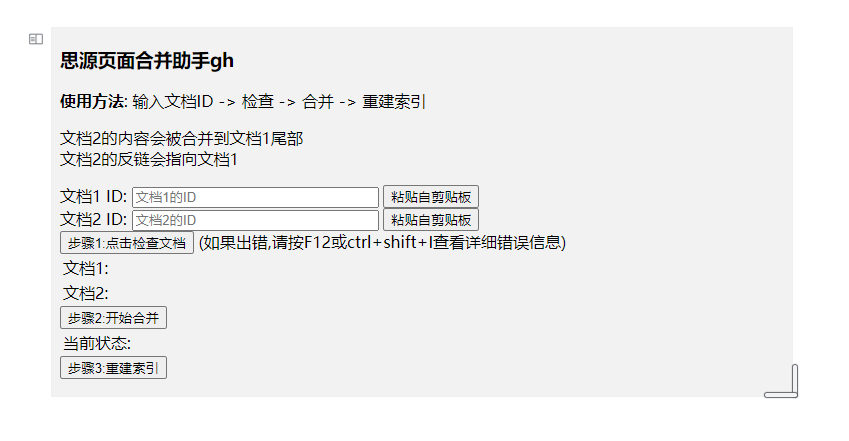
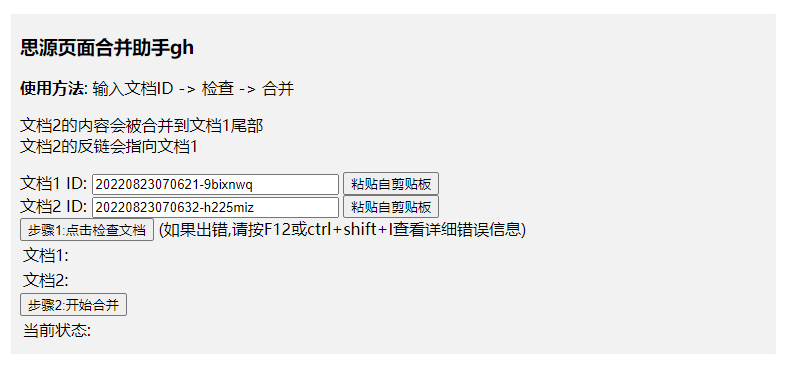
v0.0.4 无需点击重建索引按钮

diff --git a/CHANGELOG.md b/CHANGELOG.md
@@ -11,3 +11,7 @@
 ## 0.0.3.220824
 
 增加<粘贴自剪贴板>按钮,点击之后从剪贴板获取文档id并写入输入框
+
+## 0.0.4.220828
+
+改进:无需点击重建索引按钮
